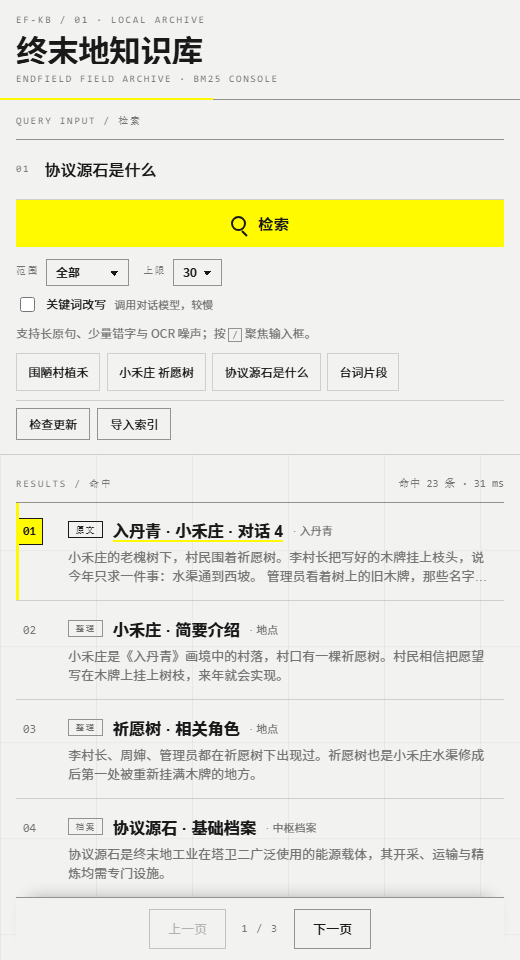
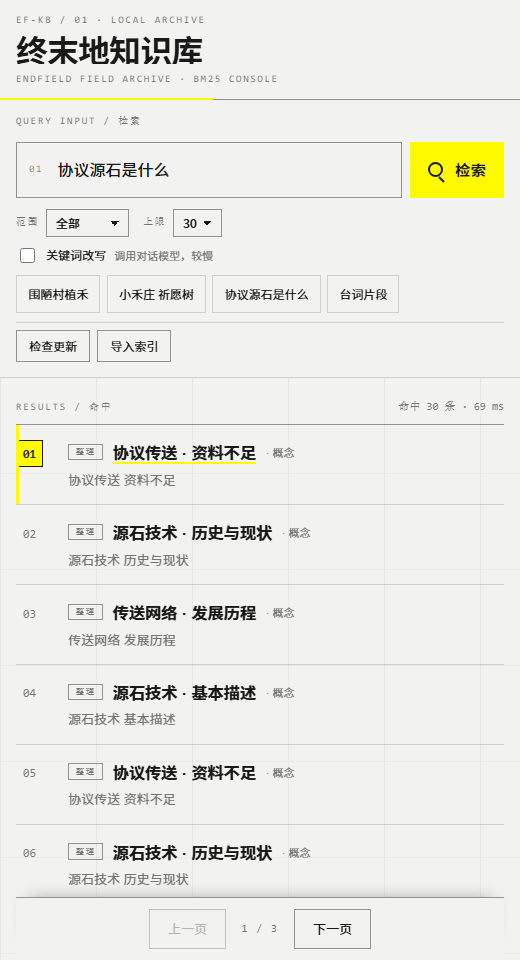
fix: inline mobile search bar

diff --git a/views/kb-console/style.css b/views/kb-console/style.css
@@ -876,15 +876,32 @@ body {
   }
 
   .ark-form {
-    flex-direction: column;
-  }
-
-  .ark-submit {
-    justify-content: center;
+    flex-direction: row;
+    align-items: stretch;
+    gap: 0.5rem;
+    border-block: 0;
+    margin-block-start: 0.75rem;
   }
 
   .ark-input-wrap {
-    border-block-end: 1px solid var(--ark-rule);
+    border: 1px solid var(--ark-rule-strong);
+    padding-inline: 0.75rem;
+    background: var(--ark-paper);
+  }
+
+  #q {
+    padding-block: 0.7rem;
+  }
+
+  .ark-form::after {
+    display: none;
+  }
+
+  .ark-submit {
+    flex: 0 0 auto;
+    justify-content: center;
+    min-block-size: auto;
+    padding-inline: 1.1rem;
   }
 
   .ark-examples button {
@@ -925,6 +942,24 @@ body {
 
   .ark-field select {
     font-size: 12px;
+  }
+
+  .ark-hint {
+    display: none;
+  }
+
+  .ark-examples {
+    flex-wrap: nowrap;
+    overflow-x: auto;
+    scrollbar-width: none;
+  }
+
+  .ark-examples::-webkit-scrollbar {
+    display: none;
+  }
+
+  .ark-examples button {
+    white-space: nowrap;
   }
 
   .ark-footbar {
